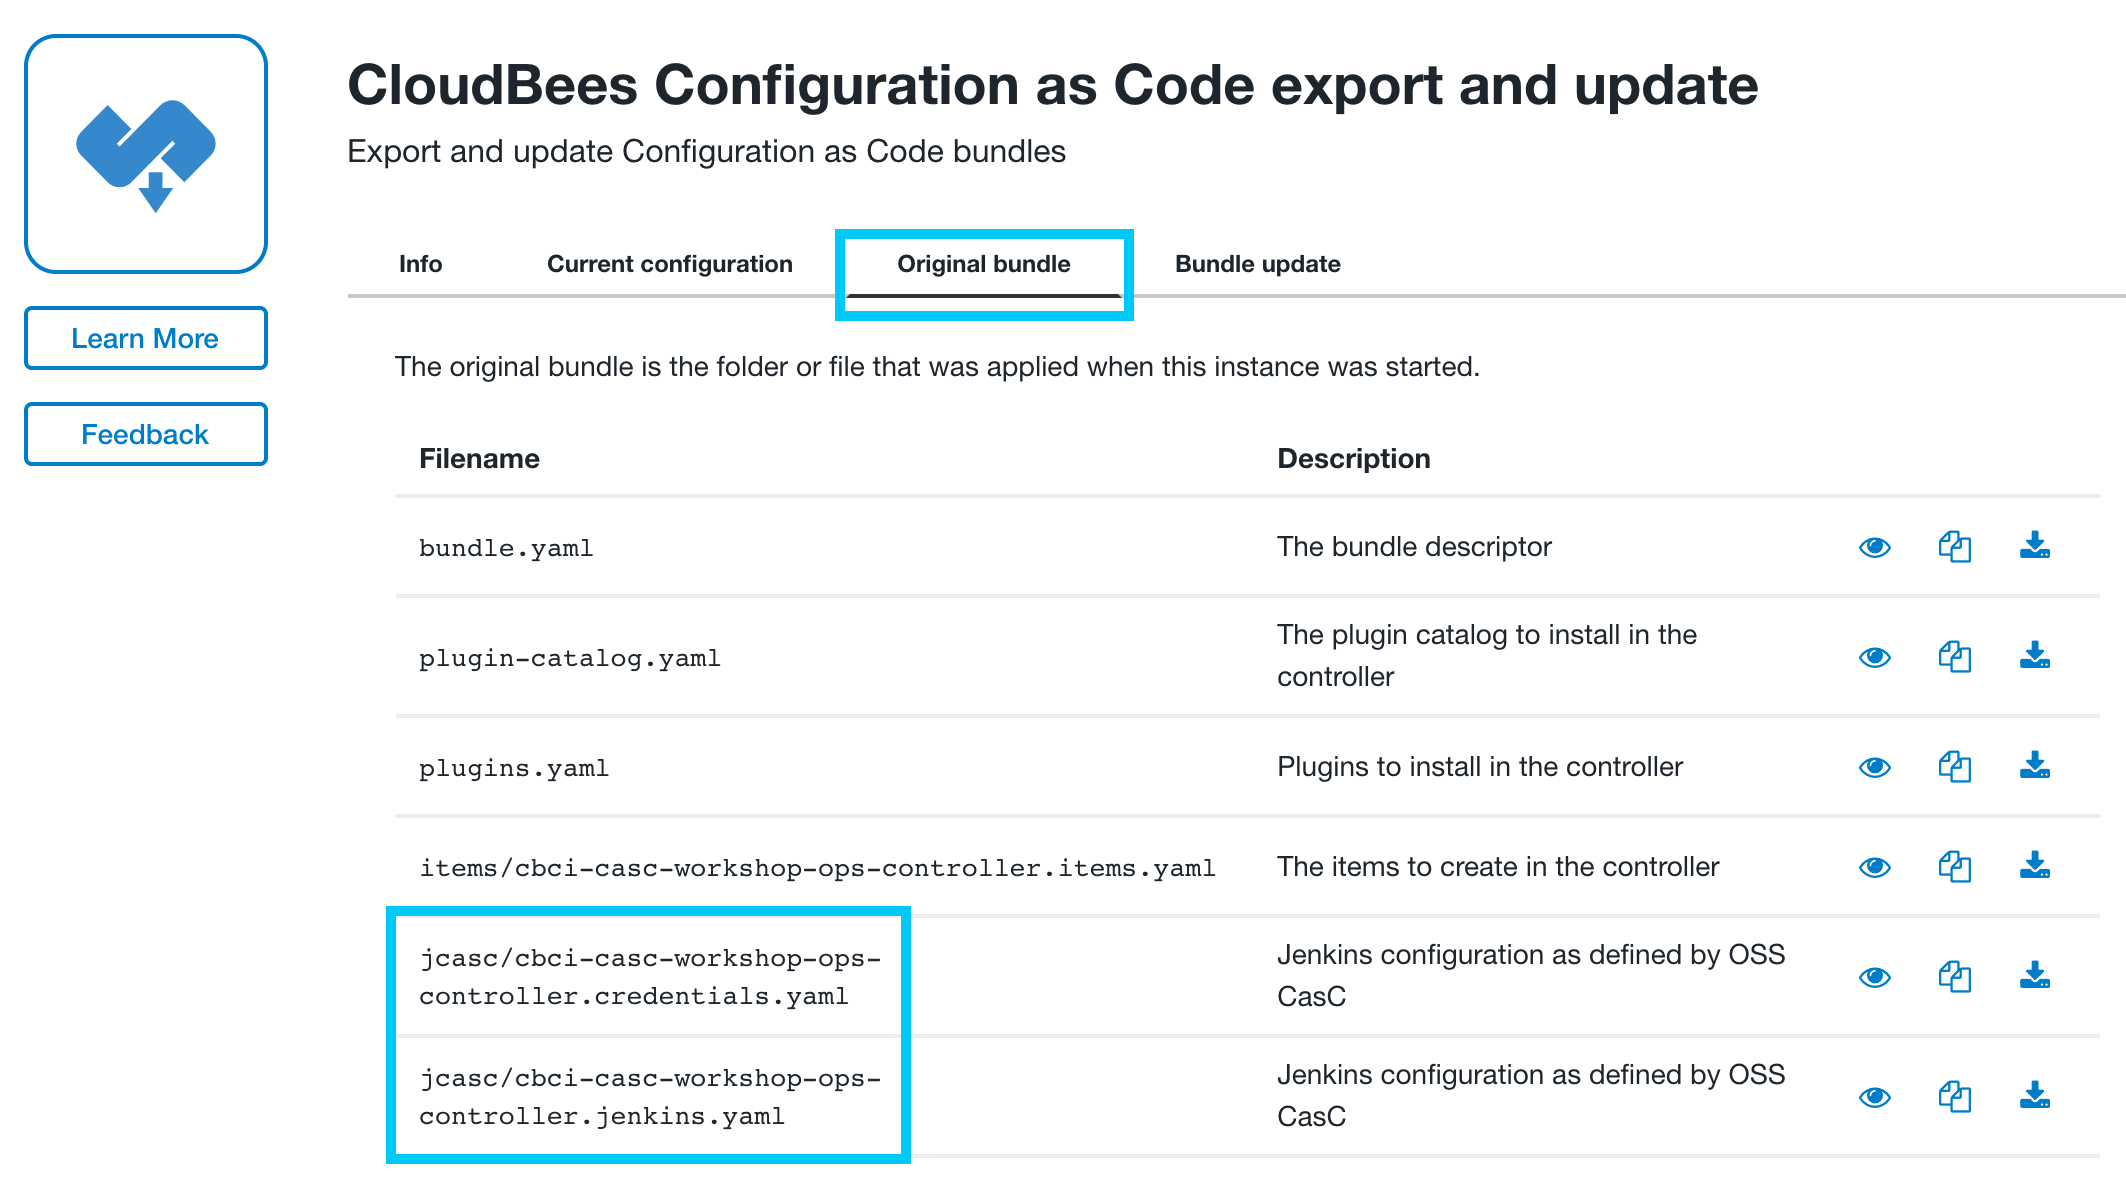
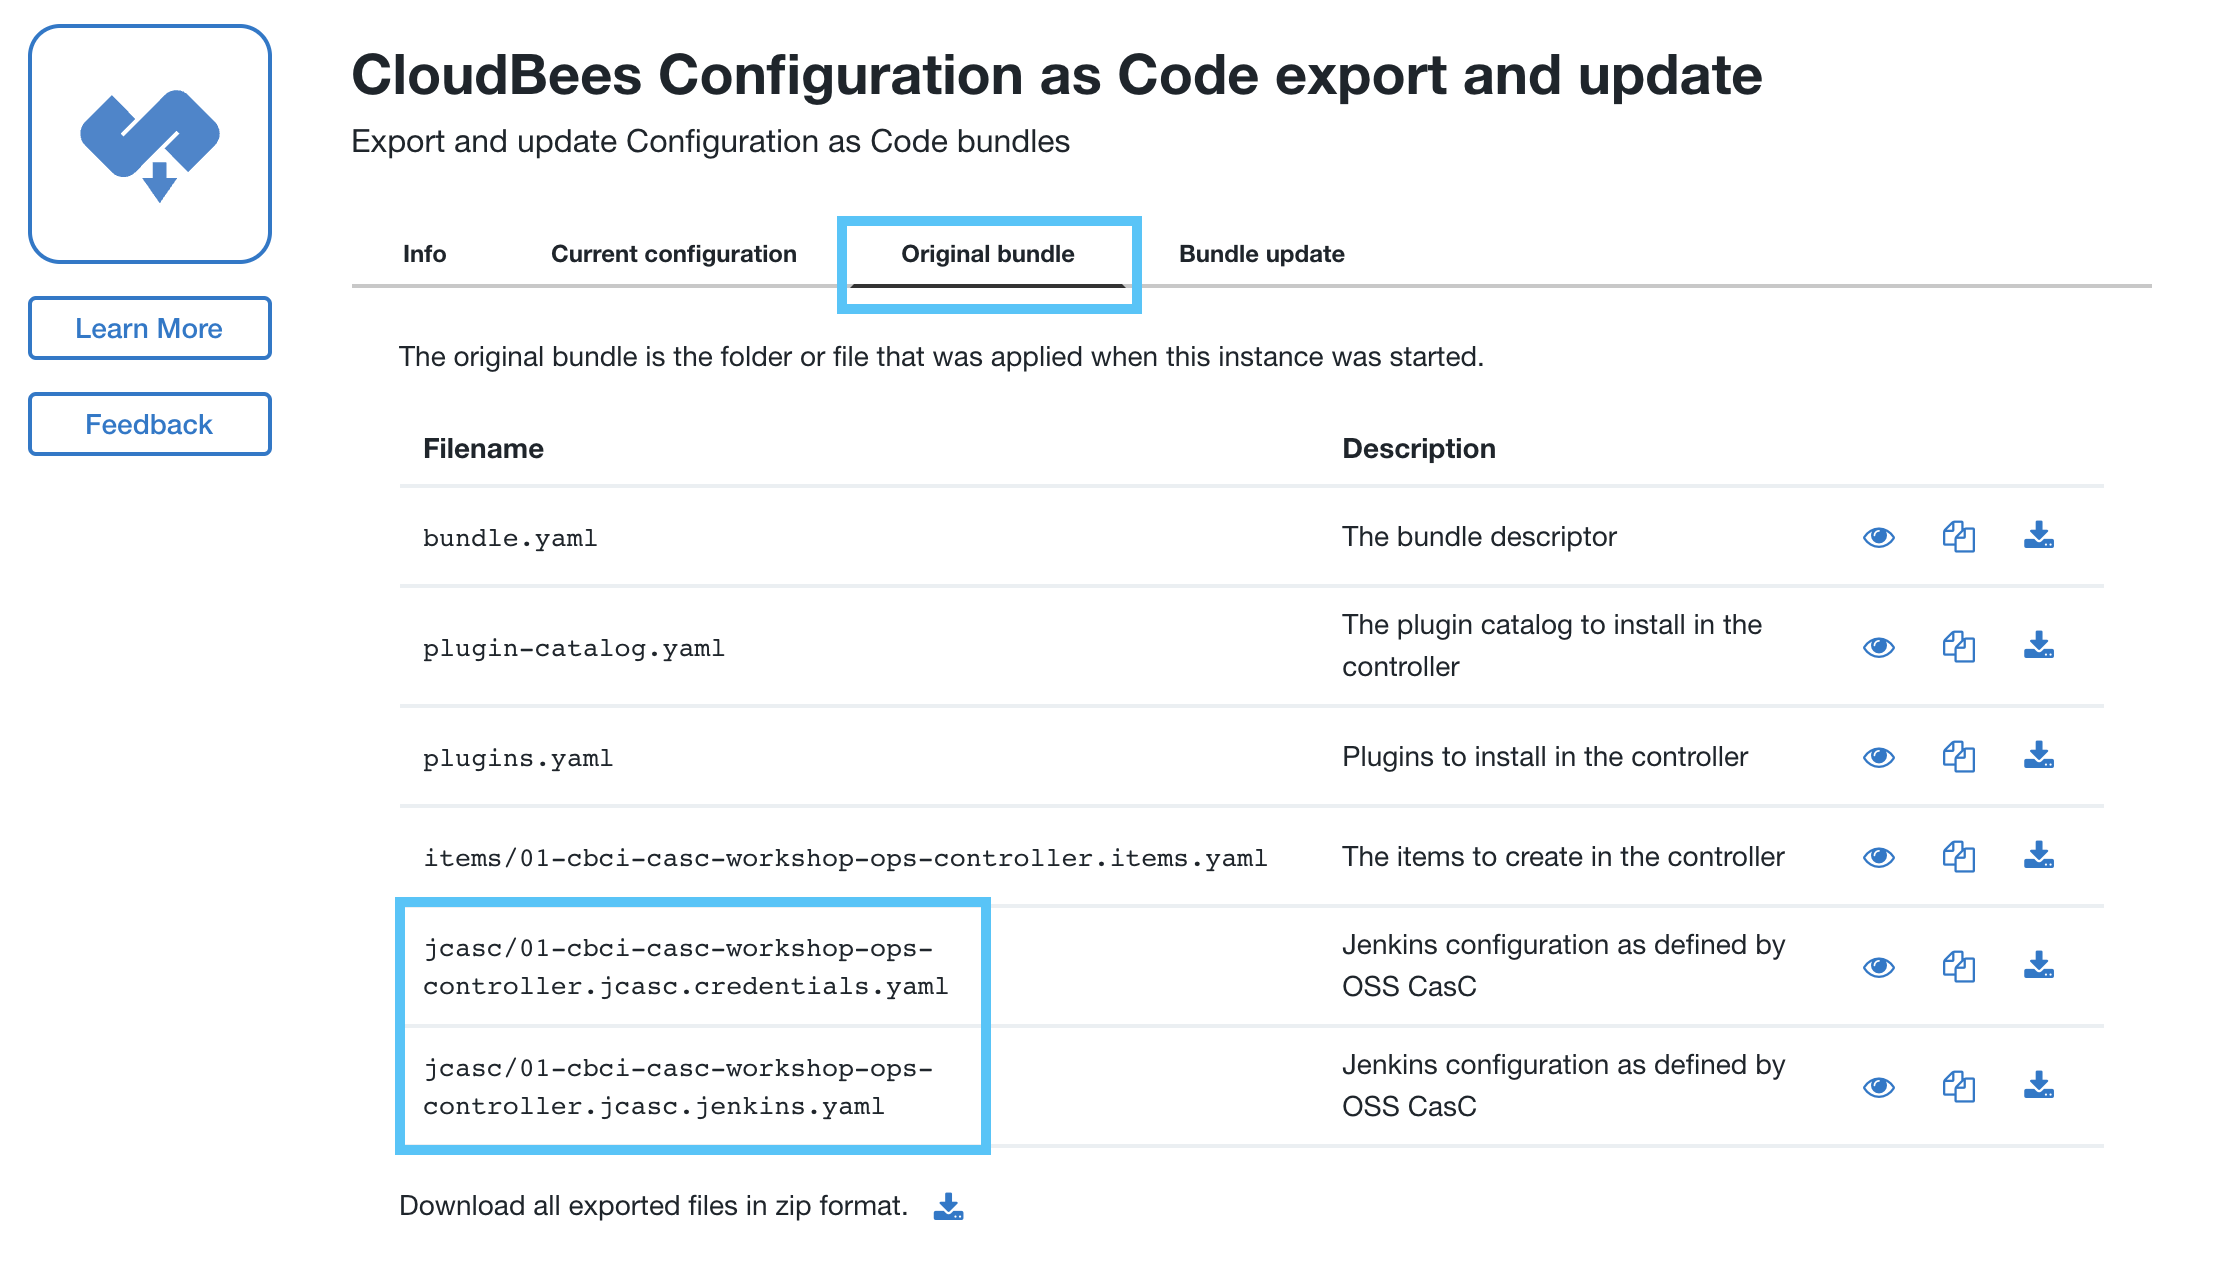
update for new release

diff --git a/labs/cloudbees-ci-casc/content/labs/advanced-bundle-composition.md b/labs/cloudbees-ci-casc/content/labs/advanced-bundle-composition.md
@@ -96,7 +96,7 @@ items:
 17. On the **CloudBees Configuration as Code export and update** click on the **Bundle update** tab and you should see that there is a bundle update available. ![CasC bundle update](casc-bundle-update.png?width=50pc)
 18. Click on the **Reload Configuration** button and then on the next screen click the **Yes** button to apply the bundle update. ![CasC bundle apply](casc-bundle-apply.png?width=50pc)
 19. After the updated configuration bundle is finished being applied return to the **CloudBees Configuration as Code export and update** configuration page and click on the **Original Bundle** tab. ![Original bundle with folder](original-bundle-folder.png?width=50pc)
-20. The **Original Bundle** view will show you what configuration is being managed by the configuration bundle assigned to your controller. Notice that there are now two *Jenkins configuration as defined by OSS CasC* files - `jcasc/cbci-casc-workshop-ops-controller.credentials.yaml` and `jcasc/cbci-casc-workshop-ops-controller.jenkins.yaml`; and both prefixed with the `id` of your bundle. This is done to support bundle inheritance as we will see in the next section.
+20. The **Original Bundle** view will show you what configuration is being managed by the configuration bundle assigned to your controller. Notice that there are now two *Jenkins configuration as defined by OSS CasC* files - `jcasc/01-cbci-casc-workshop-ops-controller.jcasc.credentials.yaml` and `jcasc/01-cbci-casc-workshop-ops-controller.jcasc.jenkins.yaml`; and both prefixed with `01`, the `id` of your bundle and include the name of the folder the configurations files are in. This is done to support including configuration files in folders and sub-folders, and also bundle inheritance as we will see in the next section.
 
 ## Bundle Inheritance
 
@@ -260,9 +260,9 @@ version: "4"
 id: "cbci-casc-workshop-ops-controller"
 description: "CloudBees CI configuration bundle for the cbci-casc-workshop ops-controller Controller"
 parent: "base"
+availabilityPattern: "{GitHub Org}/{controller name}"
 jcasc:
-  - "jcasc/credentials.yaml"
-  - "jcasc/jenkins.yaml"
+  - "jcasc/"
 plugins:
   - "plugins.yaml"
 items:
